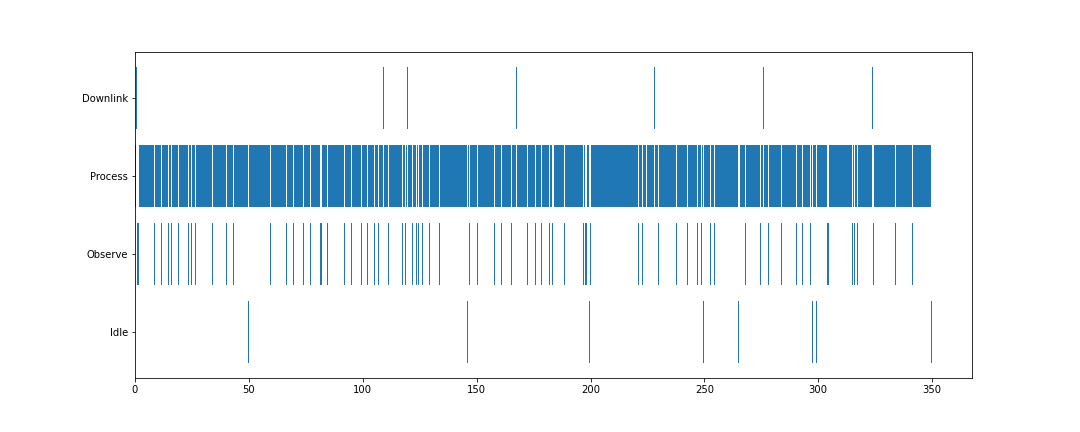
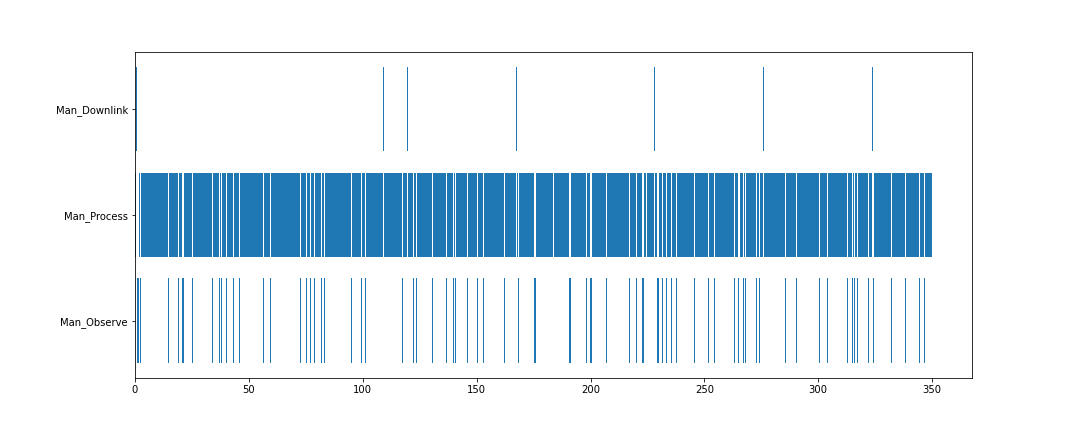
made comparison plot

diff --git a/Produced Plots comparitive.py b/Produced Plots comparitive.py
@@ -1,0 +1,126 @@
+# -*- coding: utf-8 -*-
+"""
+Created on Mon Aug  8 14:26:47 2022
+
+@author: iainh
+"""
+
+
+
+'''
+Creates plots and post processing data from xlsx sheets with the results from
+the optimisation
+'''
+
+import os
+import math
+import pandas as pd
+from ortools.sat.python import cp_model
+from Solver.CPModel_SC import CPModel_SC_data 
+from utils import plotFunctions as pf
+from utils import postProcessing as post
+from utils import readwrite
+
+
+
+filename = ["iainLaptop_NoProcess_M8_D18_H12_min42","iainLaptop_NoProcess_M8_D18_H14_min5",]
+affix = "pol/60s_30d/G40/"
+
+dt = 60
+
+path = "results/figures/"+ affix +filename[0]
+#os.mkdir(path)
+scheduleout = []
+ganttout = []
+num_detect_Log_out = []
+
+for j in  range(2):
+    
+    optimised_data = "results/" +affix + filename[j] + "/Alt_scheduleraw_up_to_shift 21000.xlsx"
+    df = pd.read_excel(optimised_data)
+    data = df.values.tolist()
+    
+    #  reads in which illuminators are visible
+    df = pd.read_csv("Data/pol/60s_30d/G40/Avg objects Detection log.csv")
+    ilum_value_list = df.values.tolist()
+    
+    data_length = len(data)
+    all_shifts = range(data_length)
+    all_action = range(4)
+    all_sat = range(66)
+    time = [dt*t/3600 for t in all_shifts]
+    
+    # used to define how long it takes to process each dataset
+    FLOP_to_proc = 1000
+    FLOPS_available = 100 # giga flops
+    
+    obs_dataset_mem = int( 150e3/100 )# in 0.1 kB   
+    obs_rate = 100                    # used to allow the observations to be processed in parts while remaining integers
+    
+    pro_rate = math.ceil(FLOP_to_proc/FLOPS_available)  # rate at which the system can process a dataset
+    pro_dataset_mem = int(300 /100)  # in 0.1 kB
+    
+    down_rate_mem = 320  # in 0.1 kB per second
+    down_rate = int(down_rate_mem/pro_dataset_mem)  # the number of processed dataset units the satellite can downlink per second
+    down_dataset_mem = int(down_rate_mem/down_rate)
+    
+    
+    '''
+    taking data from excel sheet into consituent parts for post processing
+    
+    
+    profitability calculation, check if it matches the profit calculated by the model
+    cost function shown below
+    sum(4*shifts[(2,s)]  + target_ilum[(sat,s)] * ilum_value_list[s][sat] for sat in all_sats for s in all_mod_shifts)
+    '''
+    schedule = [[],[],[],[]]
+    schedule_abs = [[],[]]
+    schedule_titles = [["Opt_Observe", "Opt_Process", "Opt_Downlink", "Opt_Idle"],["Man_Observe", "Man_Process", "Man_Downlink", "Man_Idle"]]
+    schedule_inv = [[0  for s in all_shifts] for a in all_action]
+    profitability_Log = [0 for s in all_shifts]
+    profitability = 0
+    profit_action = [0,0,66,0]
+    num_detect= 0
+    num_detect_Log = [0 for s in all_shifts]
+    
+    for s in all_shifts:
+        for a in all_action:
+            if data[s][a+1] == 1:
+                schedule[a].append(1)
+                schedule_abs[j].append(schedule_titles[j][a])
+                schedule_inv[a][s] = 1
+                profitability += profit_action[a]
+       
+        for sat in all_sat:
+            if data[s][9] == sat and data[s][1] == 1:
+                profitability += math.floor(ilum_value_list[s][sat]*10000)
+                num_detect += dt*ilum_value_list[s][sat]
+        profitability_Log[s]= profitability
+        num_detect_Log[s] = num_detect
+        
+     # loop to assign gantt data to dictionary so it can be plotted   
+    Gantt_data = []
+              
+    for s in all_shifts:
+        tempDict = dict(start = s*dt/3600, duration = dt/3600, end = (s+1)*dt/3600, action = schedule_abs[j][s])
+        Gantt_data.append(tempDict)
+
+    scheduleout.append(schedule_inv)
+    ganttout.append(Gantt_data)
+    num_detect_Log_out.append(num_detect_Log)
+
+
+    Gantt_df = pd.DataFrame(ganttout[j])
+pf.ganttChart(Gantt_df,schedule_titles,path)
+ 
+
+
+(memoryLogs1, num_logs1) = post.memoryLogAssem(scheduleout[0], obs_dataset_mem, pro_dataset_mem, obs_rate, pro_rate, down_rate,dt)
+(memoryLogs2, num_logs2) = post.memoryLogAssem(scheduleout[1], obs_dataset_mem, pro_dataset_mem, obs_rate, pro_rate, down_rate,dt)
+
+pf.memoryGraph_compare(memoryLogs1,memoryLogs2,time,path)
+pf.memoryGraph_compare(memoryLogs1,memoryLogs2,time,path)
+
+pf.ProfitGraph(profitability_Log, time,path)
+pf.detectionsGraph_compare(num_detect_Log_out,time,path)
+print(num_detect)

diff --git a/utils/plotFunctions.py b/utils/plotFunctions.py
@@ -154,6 +154,55 @@ def detectionsGraph(detections, time,path):
     
     
     
+def memoryGraph_compare(memoryLog1,memoryLog2, time,path):
+    
+    
+    
+    
+    #Creates a plot of the memory used storying observed and processed datasets as well as the total memory use
+    plt.figure(2)
+    plt.plot(time,memoryLog1[0], color = 'green', linewidth=0.5)
+    plt.plot(time,memoryLog1[1], color = 'blue',linewidth=0.5)
+    plt.plot(time,memoryLog2[0], color = 'yellow',linewidth=0.5)
+    plt.plot(time,memoryLog2[1], color = 'red',linewidth=0.5)
+    plt.plot(time,memoryLog1[3], color = 'grey', linestyle='dashed',linewidth=0.5)
+    plt.title("Storage use over time")
+    plt.xlabel("Time (hr)")
+    plt.ylabel("memory used (MB)")
+    plt.legend(["Observation Data set memory use (optimised)","processed data set memory use(optimised)","Observation Data set memory use (manual)","processed data set memory use(manual)","Max storage"])
+    ax = plt.gca()
+    #ax.set_xticklabels([])
+    name = path + "/unprocessed_memory.png"
+    plt.savefig(name)
+
+    plt.figure(3)
+    plt.plot(time,memoryLog1[1],color = 'blue')
+    plt.plot(time,memoryLog1[2],color = 'red')
+    plt.plot(time,memoryLog2[1],color = 'green')
+    plt.plot(time,memoryLog2[2],color = 'orange')
+    plt.title("Processed and Downlniked data over time ")
+    plt.legend(["Processed (optimised)","Downlinked (optimised)","Processed (manual)","Downlinked (manual)"])
+    plt.xlabel("time (hr)")
+    plt.ylabel("Data (MB)")
+    ax = plt.gca()
+    #ax.set_xticklabels([])    
+    name = path + "/processed_memory.png"
+    plt.savefig(name)
+
+def detectionsGraph_compare(detections, time,path):
+    
+    # plots expexted detections against time
+    
+    plt.figure(6)
+    plt.plot(time, detections[0], color = "red")
+    plt.plot(time, detections[1], color = "blue")
+    plt.title("Expected destections over time")
+    plt.xlabel("Time (hr)")
+    plt.ylabel("Detections")
+    plt.legend(["optimised", "manual"])
+    ax = plt.gca()
+    name = path + "/detections_graph.png"
+    plt.savefig(name)
     
     
     

diff --git a/Produced Plots.py b/Produced Plots.py
@@ -22,7 +22,7 @@ from utils import postProcessing as post
 from utils import readwrite
 
 
-filename = "iainLaptopManual_M8_D18_H11_min48"
+filename = "iainLaptop_NoProcess_M8_D18_H12_min42"
 affix = "pol/60s_30d/G40/"
 optimised_data = "results/" +affix + filename + "/Alt_scheduleraw_up_to_shift 21000.xlsx"
 dt = 60
